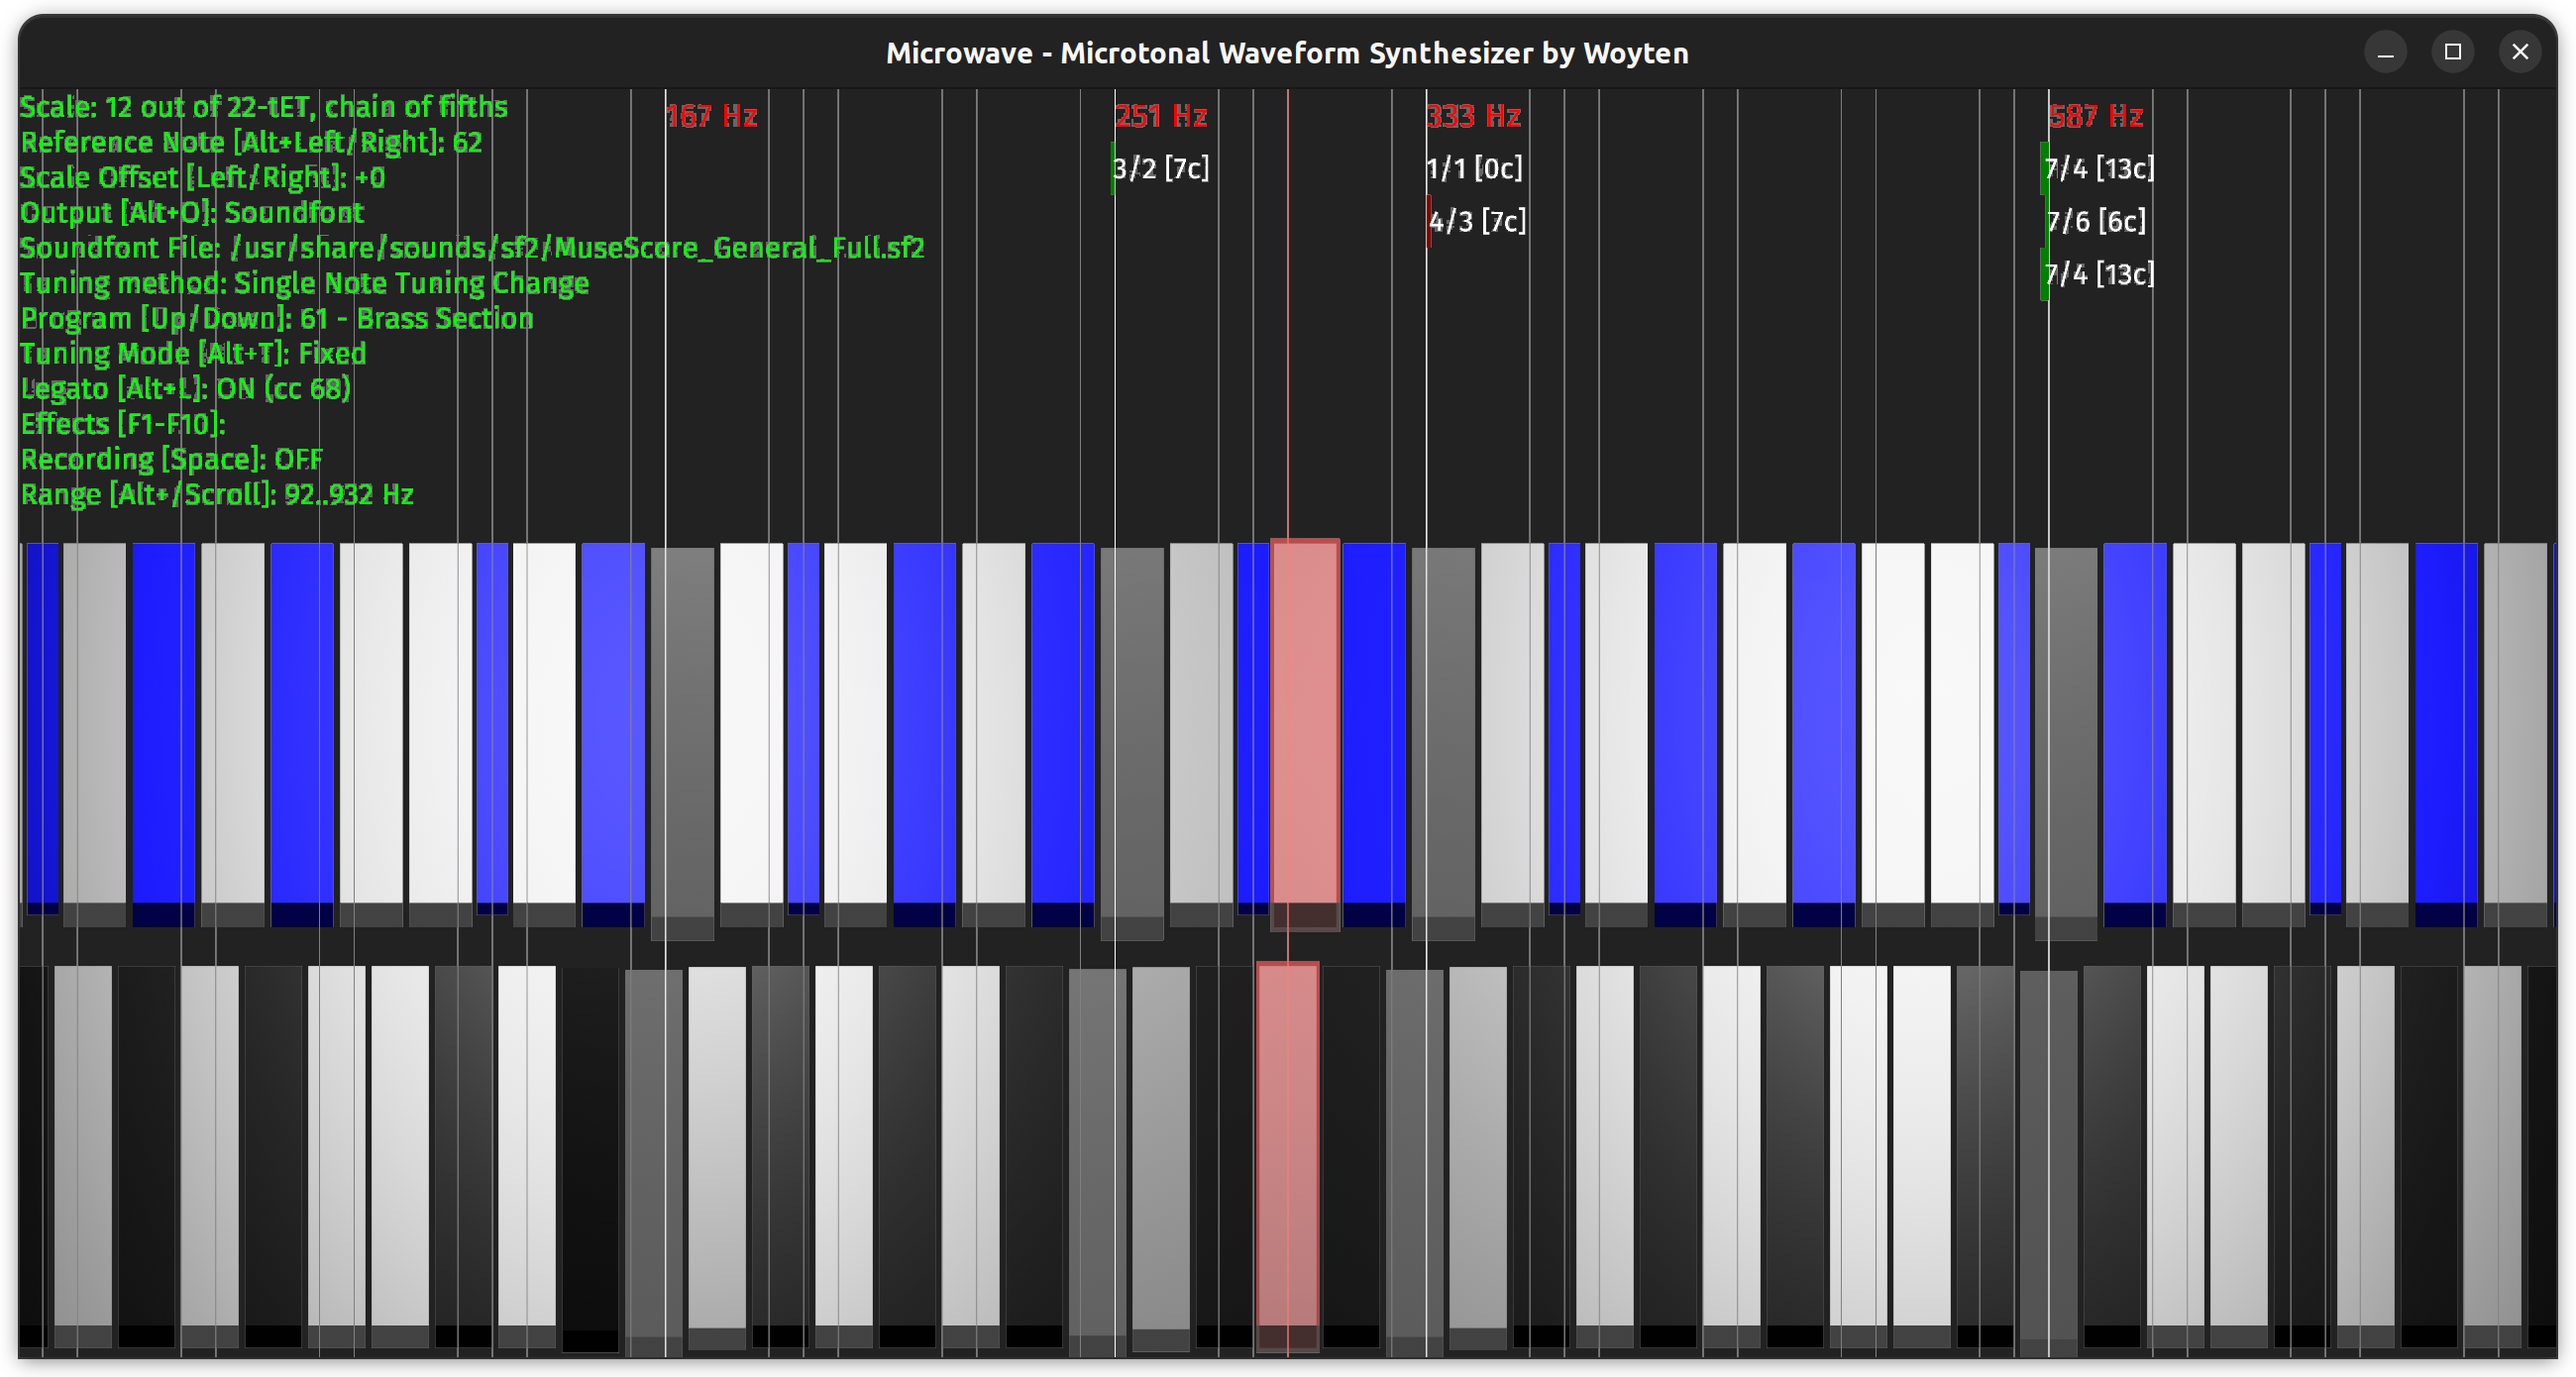
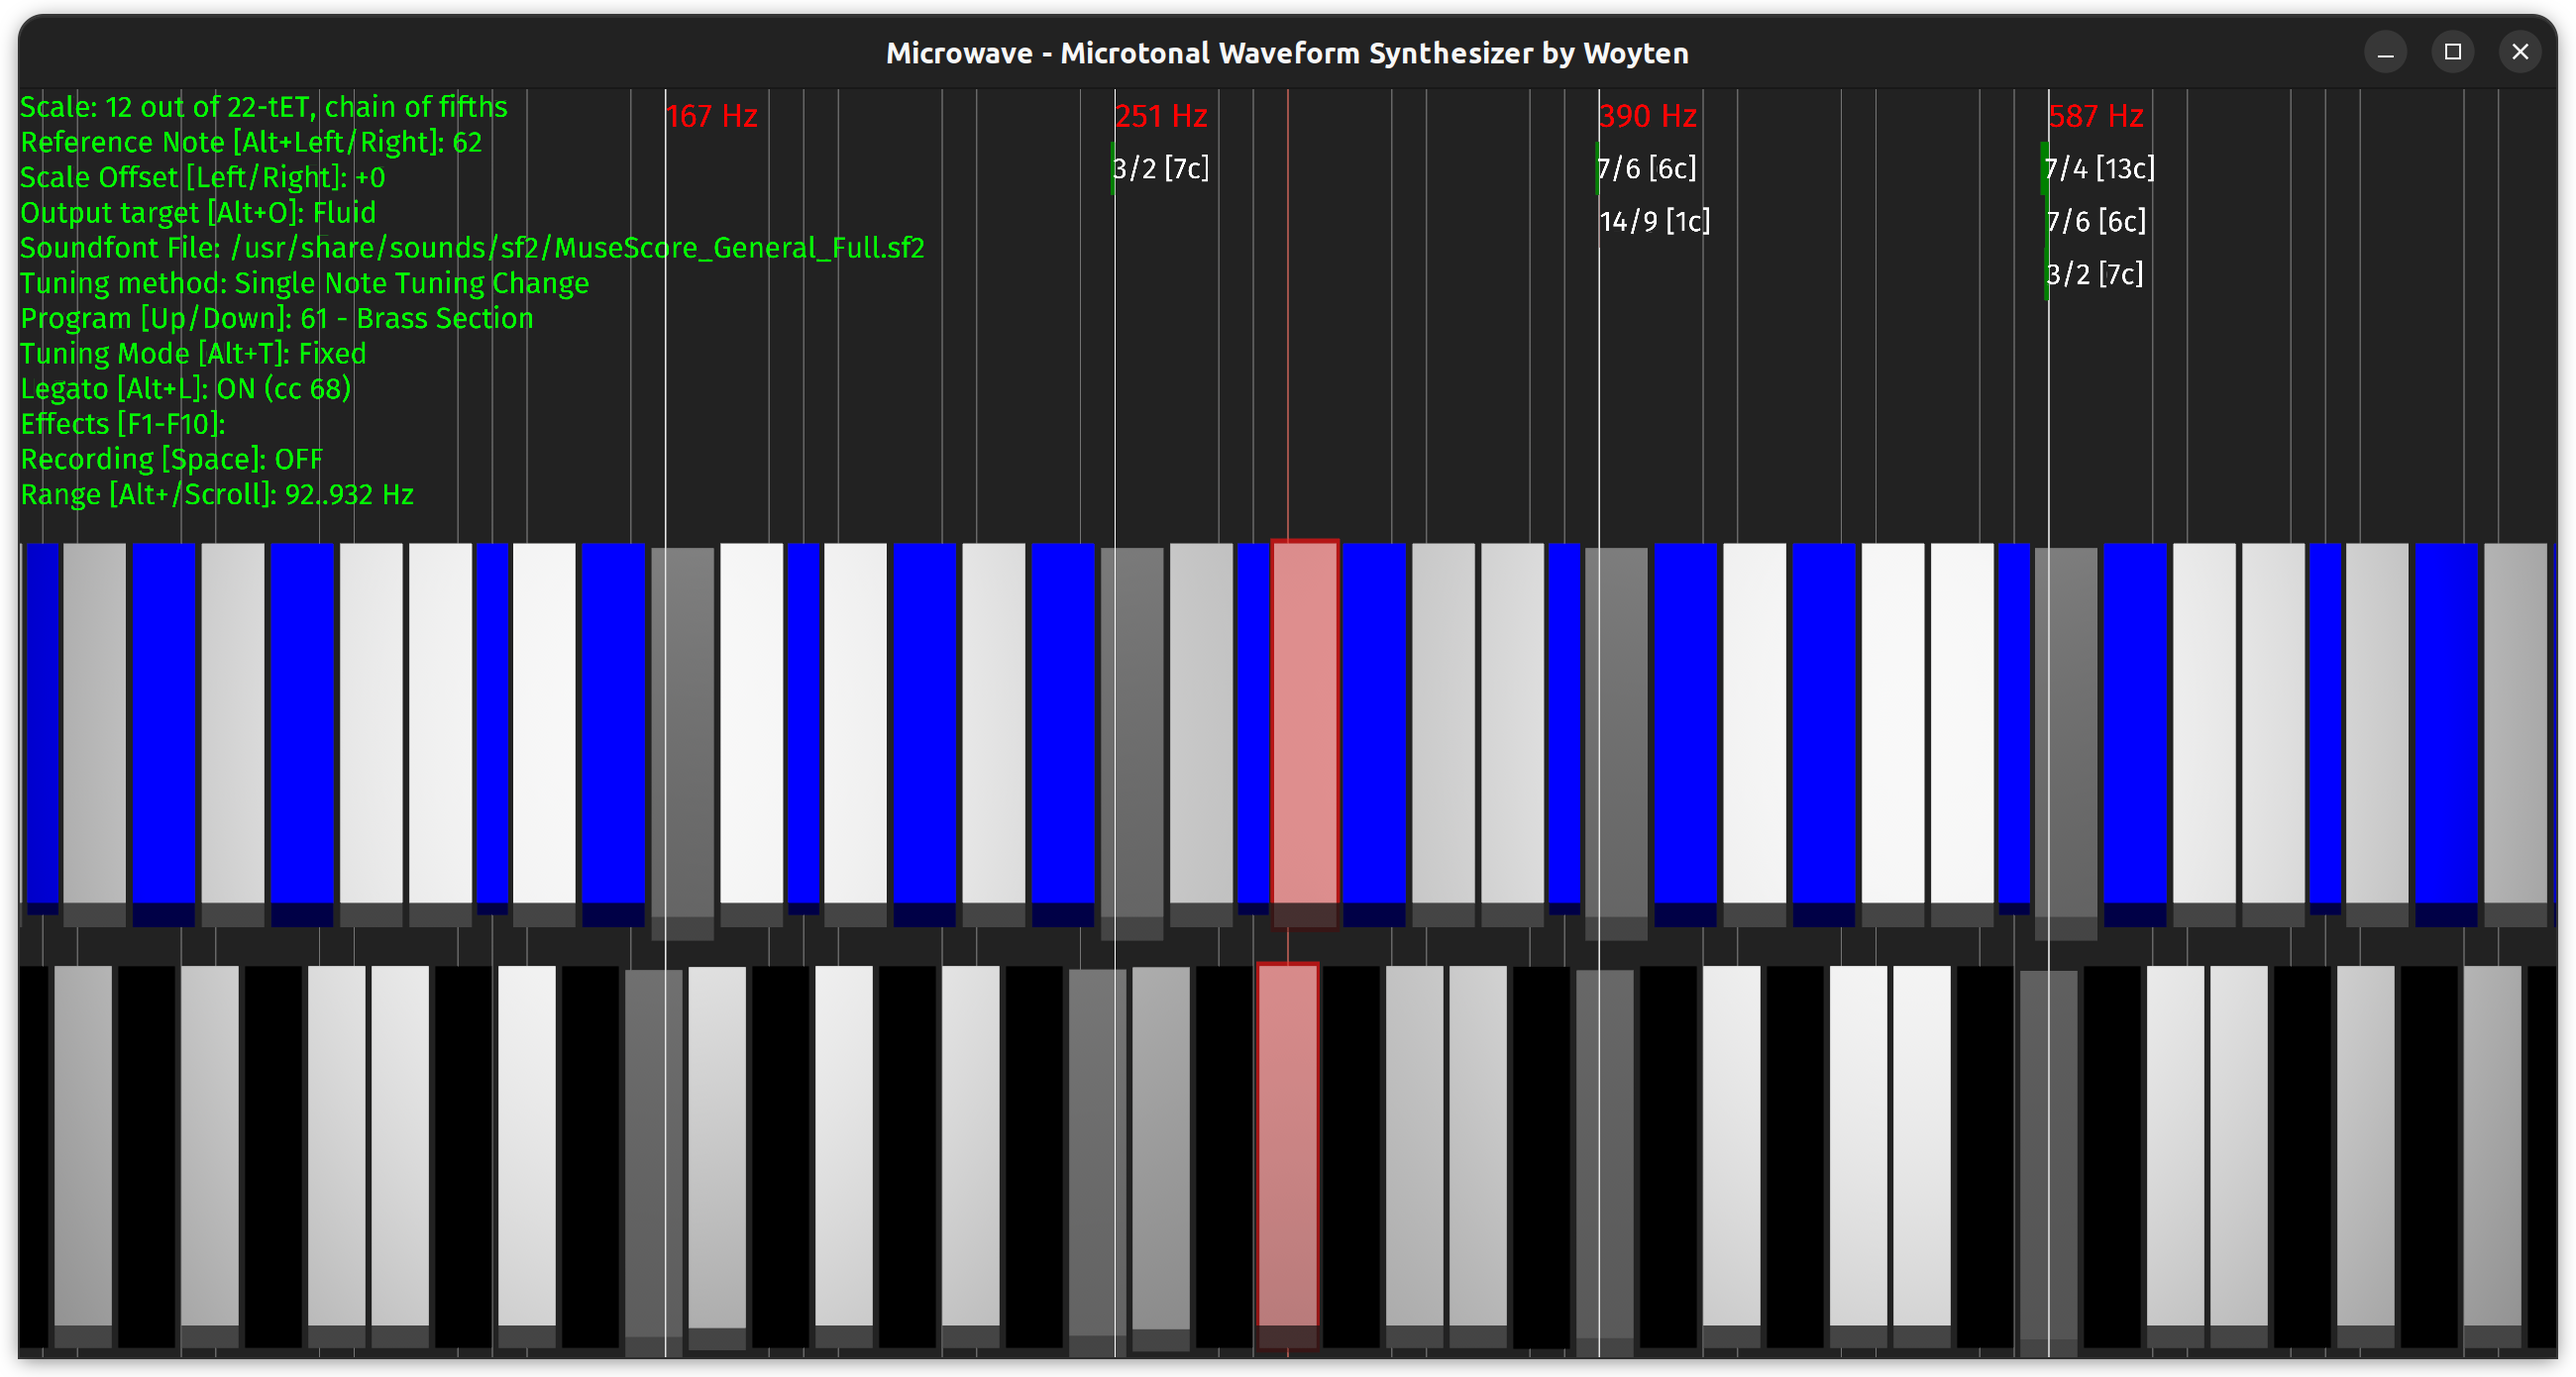
Do not render grid lines on top of the keyboards

diff --git a/microwave/src/view.rs b/microwave/src/view.rs
@@ -40,16 +40,17 @@ const SCENE_HEIGHT_2D: f32 = 1.0 / 2.0; // Designed for 2:1 viewport ratio
 const SCENE_BOTTOM_2D: f32 = -SCENE_HEIGHT_2D / 2.0;
 const SCENE_TOP_2D: f32 = SCENE_HEIGHT_2D / 2.0;
 const SCENE_HEIGHT_3D: f32 = SCENE_HEIGHT_2D * consts::SQRT_2; // 45-degree ortho perspective
+const SCENE_BOTTOM_3D: f32 = -SCENE_HEIGHT_3D / 2.0;
+const SCENE_TOP_3D: f32 = SCENE_HEIGHT_3D / 2.0;
 const SCENE_LEFT: f32 = -0.5;
 
 mod z_index {
-    pub const GRID_LINE: f32 = 0.0;
-    pub const RECORDING_INDICATOR: f32 = 0.1;
-    pub const HUD_TEXT: f32 = 0.2;
-    pub const PITCH_LINE: f32 = 0.3;
-    pub const PITCH_TEXT: f32 = 0.4;
-    pub const DEVIATION_MARKER: f32 = 0.5;
-    pub const DEVIATION_TEXT: f32 = 0.6;
+    pub const RECORDING_INDICATOR: f32 = 0.0;
+    pub const HUD_TEXT: f32 = 0.1;
+    pub const PITCH_LINE: f32 = 0.2;
+    pub const PITCH_TEXT: f32 = 0.3;
+    pub const DEVIATION_MARKER: f32 = 0.4;
+    pub const DEVIATION_TEXT: f32 = 0.5;
 }
 
 const FONT_RESOLUTION: f32 = 60.0;
@@ -181,7 +182,7 @@ fn update_scene(
         create_grid_lines(
             &mut commands,
             &mut meshes,
-            &mut color_materials,
+            &mut materials,
             &state.0,
             &viewport,
         );
@@ -461,7 +462,7 @@ struct GridLines;
 fn create_grid_lines(
     commands: &mut Commands,
     meshes: &mut Assets<Mesh>,
-    materials: &mut Assets<ColorMaterial>,
+    materials: &mut Assets<StandardMaterial>,
     state: &PianoEngineState,
     viewport: &Viewport,
 ) {
@@ -470,8 +471,8 @@ fn create_grid_lines(
         mesh.insert_attribute(
             Mesh::ATTRIBUTE_POSITION,
             vec![
-                Vec3::new(0.0, SCENE_BOTTOM_2D, 0.0),
-                Vec3::new(0.0, SCENE_TOP_2D, 0.0),
+                Vec3::new(0.0, SCENE_BOTTOM_3D, 0.0),
+                Vec3::new(0.0, SCENE_TOP_3D, 0.0),
             ],
         );
         mesh
@@ -487,10 +488,14 @@ fn create_grid_lines(
         };
 
         scale_grid.with_children(|commands| {
-            commands.spawn(MaterialMesh2dBundle {
-                mesh: line_mesh.clone().into(),
-                transform: Transform::from_xyz(pitch_coord, 0.0, z_index::GRID_LINE),
-                material: materials.add(line_color.into()),
+            commands.spawn(MaterialMeshBundle {
+                mesh: line_mesh.clone(),
+                transform: Transform::from_xyz(pitch_coord, -10.0, -10.0),
+                material: materials.add(StandardMaterial {
+                    base_color: line_color,
+                    unlit: true,
+                    ..default()
+                }),
                 ..default()
             });
         });
